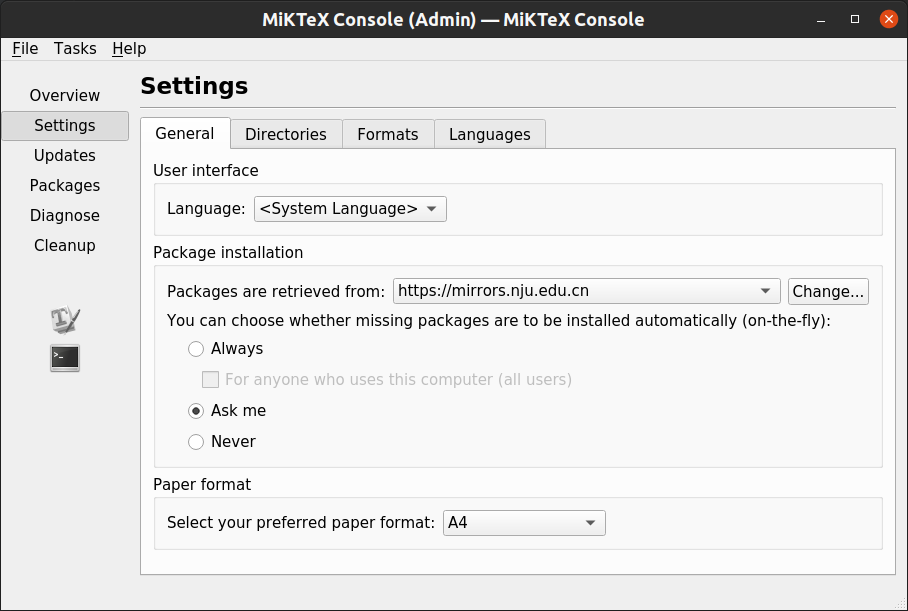
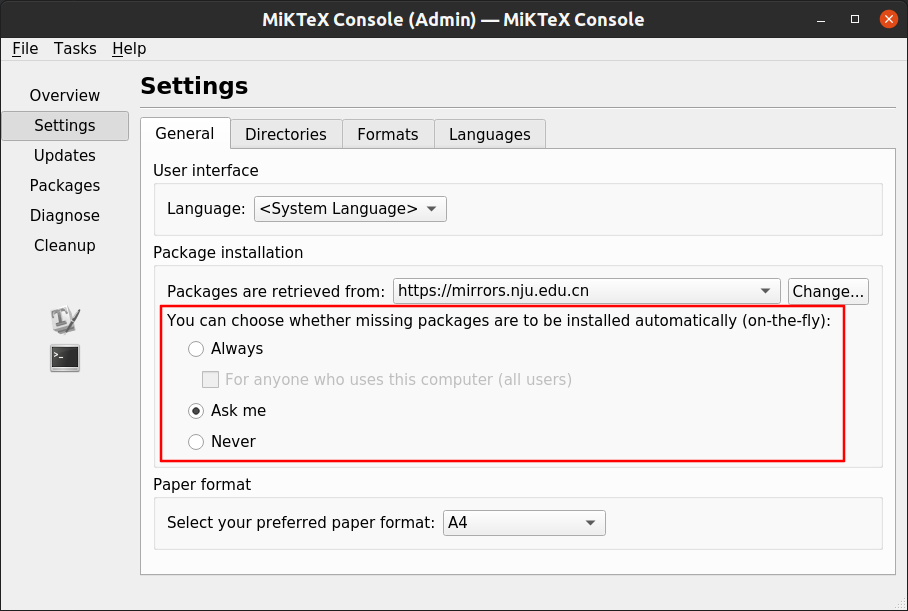
Edit "C02_MiKTeX": Missing packages.

Changed region(s): [[0.1542, 0.4975, 0.9559, 0.7463], [0.185, 0.7463, 0.9251, 0.7774]]

diff --git a/C02_MiKTeX/C02_MiKTeX.md b/C02_MiKTeX/C02_MiKTeX.md
@@ -45,6 +45,18 @@
 
 回到 `Settings` 界面，看到远程仓库地址设置成功。
 
+## 自动安装缺失包
+
+我们可以设置是否自动安装缺失包。MiKTeX 提供了三种遇到缺失包时的行为：
+
+- `Always`：自动安装缺失包。有时候编译 LaTeX 文档会很慢，很可能就是缺失了某些包。这时需要等到所有的缺失包（包括所有缺失的依赖包）都下载完，才能进行编译。但是下载过程不会有进度显示，所以耐心等待几分钟吧。
+
+- `Ask me`：安装缺失包时弹出对话框。安装每个缺失包之前，都会弹出一个对话框进行确认。如果缺失包比较多，反复弹出十几个窗口也不是不可能。
+
+- `Never`：从不安装缺失包。这时编译 LaTeX 文档会出错，需要自己手动前往 MiKTeX 控制台安装缺失包。
+
+这里，我一般习惯使用 `Ask me` 模式。
+
 ![](settings-general-4.png)
 
 ## 安装包
